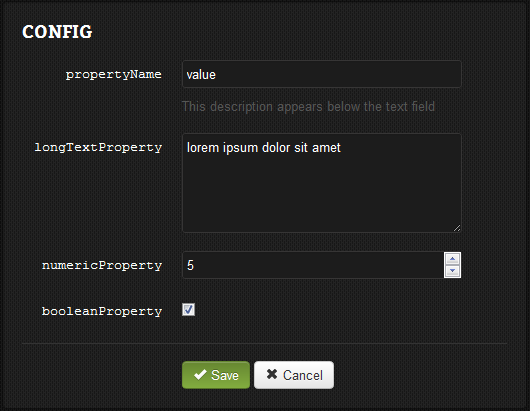
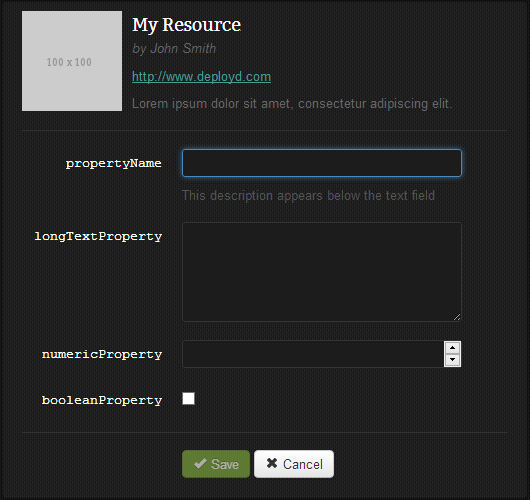
Added docs for new basic dashboard properties

diff --git a/docs/developing-modules/custom-dashboards.md b/docs/developing-modules/custom-dashboards.md
@@ -1,0 +1,167 @@
+## Creating a Custom Dashboard
+
+When you extend a [Module](/docs/developing-modules/internal-api/module.md) or a [Resource Type](/docs/developing-modules/internal-api/resource.md), you can create a custom dashboard for it.
+
+The default dashboard is a JSON editor for `config.json` (in the case of a Resource) or a specific module's section of `app.dpd`.
+
+### Adding a Basic Dashboard
+
+Deployd provides an automatically generated settings page called the "basic dashboard" that works well for most simple extensions. To add it, add a `basicDashboard` property to the `Module` or `Resource` type:
+
+- `settings` - An array of objects describing which properties to display. 
+  - `name` - The name of the property. This is how the value will be passed into the `config` object, so make sure it's something JavaScript-friendly, e.g. `maxItems`.
+  - `type` - The type of control to edit this property. Allowed types are `text`, `textarea`, `number`, and `checkbox`.
+  - `description` (Optional) - Explanatory text to appear below the field.
+- `title` (Optional) - The title of the config page. Defaults to "Config".
+- `author` (Optional) - Your name or your organization's name.
+- `url` (Optional) - An absolute URL to documentation or your resource's web site.
+- `image` (Optional) - An absolute URL to a 100x100 image that will appear on the page. 
+- `description` (Optional) - A brief paragraph describing what your resource does
+
+<!-- separate -->
+
+    Resource.extend("MyResource", {
+      basicDashboard: {
+        title: "My Resource",
+        author: "John Smith",
+        url: "http://www.deployd.com",
+        image: "http://placehold.it/100x100",
+        description: "Lorem ipsum dolor sit amet, consectetur adipiscing elit.",
+        settings: [{
+            name: 'propertyName',
+            type: 'text',
+            description: "This description appears below the text field"
+        }, {
+            name: 'longTextProperty',
+            type: 'textarea'
+        }, {
+            name: 'numericProperty',
+            type: 'number'
+        }, {
+            name: 'booleanProperty',
+            type: 'checkbox'
+        }]
+      }
+    });
+
+The above sample will produce the following dashboard page:
+
+![Example basic dashboard](/images/basic-dashboard.png)
+
+
+### Fully Customizing a Dashboard
+
+If a basic dashboard doesn't meet your module's needs, you can create a fully customized dashboard with HTML, CSS, and JavaScript. 
+
+To define a custom dashboard, add a `dashboard` property to your `Module` or `Resource` type.
+
+This is a sample of how the Dashborad for the `Collection` resource is implemented:
+
+    Resource.extend("Collection", {
+      dashboard: {
+          path: path.join(__dirname, 'dashboard')
+        , pages: ['Properties', 'Data', 'Events', 'API']
+        , scripts: [
+            '/js/ui.js'
+          , '/js/util.js'
+        ]
+      }
+    });
+
+* `path` {String}
+
+The absolute path to this resource's dashboard assets
+
+* `pages` {Array} *(optional)*
+
+An array of pages to appear in the sidebar. If this is not provided, the only page available will be "Config" (and "Events", if `ResourceType.events` is set).
+
+The dashboard will load content from `[current-page].html` and `js/[current-page].js`.
+
+*Note: If you specify a "Config" page, it will load from `index.html` and `js/index.js`. If no `index.html` page is provided, "Config" will point to the basic dashboard.*
+
+* `scripts` {Array} *(optional)*
+
+An array of extra JavaScript files to load with the dashboard pages, relative to the `path`.
+
+#### Dashboard asset loading <!-- ref -->
+
+When you request a page from a custom dashboard, it will load the following files, if they are available, from the `dashboard.path`:
+
+ - `[current-page].html`
+ - `js/[current-page].js`
+ - `style.css`
+
+The default page is `index`; the `config` page will also redirect to `index`. 
+
+The `config` or `index` page will load the basic dashboard if no `index.html` file is provided.
+The `events` page will load the default event editor if no `events.html` file is provided.
+
+It will also load the JavaScript files in the `dashboard.scripts` property.
+
+#### Creating a custom dashboard
+
+##### Event editor control <!-- ref -->
+
+To embed the event editor in your dashboard, include this empty div:
+  
+    <div id="event-editor" class="default-editor"></div>
+
+##### Styling <!-- ref -->
+
+For styling, the dashboard uses a re-skinned version of [Twitter Bootstrap 2.0.2](http://twitter.github.com/bootstrap/). 
+
+##### JavaScript <!-- ref -->
+
+The dashboard provides several JavaScript libraries by default:
+
+- [jQuery 1.7.2](http://jquery.com/)
+- [jquery.cookie](https://github.com/carhartl/jquery-cookie/)
+- [Underscore 1.3.3](http://underscorejs.org/)
+- [Twitter Bootstrap 2.0.2](http://twitter.github.com/bootstrap/javascript.html)
+- [UIKit](http://visionmedia.github.com/uikit/)
+- [Ace Editor](https://github.com/ajaxorg/ace) (no-conflict version)
+    - JavaScript mode
+    - JSON mode
+    - Custom theme for the Dashboard (`ace/theme/deployd`)
+- [Google Code Prettify](http://code.google.com/p/google-code-prettify/)
+- dpd.js
+    - *Note:* all dpd.js requests will be sent as [root](/docs/collections/reference/http.md#s-root-requests)
+
+Within the dashboard, a `Context` object is available:
+
+    //Automatically generated by Deployd:
+    window.Context = {
+      resourceId: '/hello', // The id of the current resource
+      resourceType: 'Hello', // The type of the current resource
+      page: 'properties', // The current page, in multi-page dashboards
+      basicDashboard: {} // The configuration of the basic dashboard
+    };
+
+You can use this to query the current resource:
+
+    dpd(Context.resourceId).get(function(result, err) {
+      //Do something
+    });
+
+In the dashboard, you also have access to the special `__resources` resource, which lets you update your app's configuration files:
+
+    // Get the config for the current resource
+    dpd('__resources').get(Context.resourceId, function(result, err) {
+      //Do something
+    });
+    
+    // Set a property for the current resource
+    dpd('__resources').put(Context.resourceId, {someProperty: true}, function(result, err) {
+      //Do something
+    });
+    
+    // Set all properties for the current resource, deleting any that are not provided
+    dpd('__resources').put(Context.resourceId, {someProperty: true, $setAll: true}, function(result, err) {
+      //Do something
+    });
+    
+    // Save another file, which will be loaded by the resource
+    dpd('__resources').post(Context.resourceId + '/content.md', {value: "# Hello World!"}, function(result, err)) {
+      //Do something
+    });

diff --git a/docs/developing-modules/internal-api/resource.md b/docs/developing-modules/internal-api/resource.md
@@ -276,147 +276,10 @@ The default path suggested to users creating a resource. If this is not set, it 
 
 Set this property to an object to create a custom configuration page for your resource type.
 
-- `settings` - An array of objects describing which properties to display. 
-- `name` - The name of the property. This is how the value will be passed into the `config` object, so make sure it's something JavaScript-friendly, e.g. `maxItems`.
-- `type` - The type of control to edit this property. Allowed types are `text`, `textarea`, `number`, and `checkbox`.
-- `description` (Optional) - Explanatory text to appear below the field.
-
-<!-- separate -->
-
-    Resource.extend("MyResource", {
-      basicDashboard: {
-        settings: [{
-            name: 'propertyName',
-            type: 'text',
-            description: "This description appears below the text field"
-        }, {
-            name: 'longTextProperty',
-            type: 'textarea'
-        }, {
-            name: 'numericProperty',
-            type: 'number'
-        }, {
-            name: 'booleanProperty',
-            type: 'checkbox'
-        }]
-      }
-    };
-
-The above sample will produce the following dashboard page:
-
-![Example basic dashboard](/images/basic-dashboard.png)
+See [Creating a Custom Dashboard](/docs/developing-modules/custom-dashboards.md) for details.
 
 ### Collection.dashboard <!-- api -->
 
 A resource can describe the dependencies of a fully custom dashboard editor UI. This will be passed to the dashboard during rendering to create a custom UI.
 
-This example creates the custom dashboard for the `Collection` resource. It automatically includes pages and page-specific scripts:
-
-    Resource.extend("Collection", {
-      dashboard: {
-          path: path.join(__dirname, 'dashboard')
-        , pages: ['Properties', 'Data', 'Events', 'API']
-        , scripts: [
-            '/js/ui.js'
-          , '/js/util.js'
-        ]
-      }
-    });
-
-* `path` {String}
-
-The absolute path to this resource's dashboard
-
-* `pages` {Array} *(optional)*
-
-An array of pages to appear in the sidebar. If this is not provided, the only page available will be "Config" (and "Events", if `MyResource.events` is set).
-
-The dashboard will load content from `[current-page].html` and `js/[current-page].js`.
-
-*Note: The "Config" page will load from `index.html` and `js/index.js`.*
-
-* `scripts` {Array} *(optional)*
-
-An array of extra JavaScript files to load with the dashboard pages.
-
-#### Dashboard asset loading <!-- ref -->
-
-When you request a page from a custom dashboard, it will load the following files, if they are available, from the `dashboard.path`:
-
- - `[current-page].html`
- - `js/[current-page].js`
- - `style.css`
-
-The default page is `index`; the `config` page will also redirect to `index`. 
-
-The `config` or `index` page will load the basic dashboard if no `index.html` file is provided.
-The `events` page will load the default event editor if no `events.html` file is provided.
-
-It will also load the JavaScript files in the `dashboard.scripts` property.
-
-#### Creating a custom dashboard
-
-##### Event editor control <!-- ref -->
-
-To embed the event editor in your dashboard, include this empty div:
-  
-    <div id="event-editor" class="default-editor"></div>
-
-##### Styling <!-- ref -->
-
-For styling, the dashboard uses a re-skinned version of [Twitter Bootstrap 2.0.2](http://twitter.github.com/bootstrap/). 
-
-##### JavaScript <!-- ref -->
-
-The dashboard provides several JavaScript libraries by default:
-
-- [jQuery 1.7.2](http://jquery.com/)
-- [jquery.cookie](https://github.com/carhartl/jquery-cookie/)
-- [Underscore 1.3.3](http://underscorejs.org/)
-- [Twitter Bootstrap 2.0.2](http://twitter.github.com/bootstrap/javascript.html)
-- [UIKit](http://visionmedia.github.com/uikit/)
-- [Ace Editor](https://github.com/ajaxorg/ace) (no-conflict version)
-    - JavaScript mode
-    - JSON mode
-    - Custom theme for the Dashboard (`ace/theme/deployd`)
-- [Google Code Prettify](http://code.google.com/p/google-code-prettify/)
-- dpd.js
-    - *Note:* all dpd.js requests will be sent as [root](/docs/collections/reference/http.md#s-root-requests)
-
-Within the dashboard, a `Context` object is available:
-
-    //Automatically generated by Deployd:
-    window.Context = {
-      resourceId: '/hello', // The id of the current resource
-      resourceType: 'Hello', // The type of the current resource
-      page: 'properties', // The current page, in multi-page dashboards
-      basicDashboard: {} // The configuration of the basic dashboard
-    };
-
-You can use this to query the current resource:
-
-    dpd(Context.resourceId).get(function(result, err) {
-      //Do something
-    });
-
-In the dashboard, you also have access to the special `__resources` resource, which lets you update your app's configuration files:
-
-    // Get the config for the current resource
-    dpd('__resources').get(Context.resourceId, function(result, err) {
-      //Do something
-    });
-    
-    // Set a property for the current resource
-    dpd('__resources').put(Context.resourceId, {someProperty: true}, function(result, err) {
-      //Do something
-    });
-    
-    // Set all properties for the current resource, deleting any that are not provided
-    dpd('__resources').put(Context.resourceId, {someProperty: true, $setAll: true}, function(result, err) {
-      //Do something
-    });
-    
-    // Save another file, which will be loaded by the resource
-    dpd('__resources').post(Context.resourceId + '/content.md', {value: "# Hello World!"}, function(result, err)) {
-      //Do something
-    });
+See [Creating a Custom Dashboard](/docs/developing-modules/custom-dashboards.md) for details.

diff --git a/docs/developing-modules/internal-api/module.md b/docs/developing-modules/internal-api/module.md
@@ -75,6 +75,19 @@ The `load()` method allows you to load additional configuration asynchronously.
       }
     });
 
+### Configuration
+
+### Module.basicDashboard <!-- api -->
+
+Set this property to an object to create a custom configuration page for your module.
+
+See [Creating a Custom Dashboard](/docs/developing-modules/custom-dashboards.md) for details.
+
+### CoModulellection.dashboard <!-- api -->
+
+A module can describe the dependencies of a fully custom dashboard editor UI. This will be passed to the dashboard during rendering to create a custom UI.
+
+See [Creating a Custom Dashboard](/docs/developing-modules/custom-dashboards.md) for details.
 
 ### Defining Features 
 
